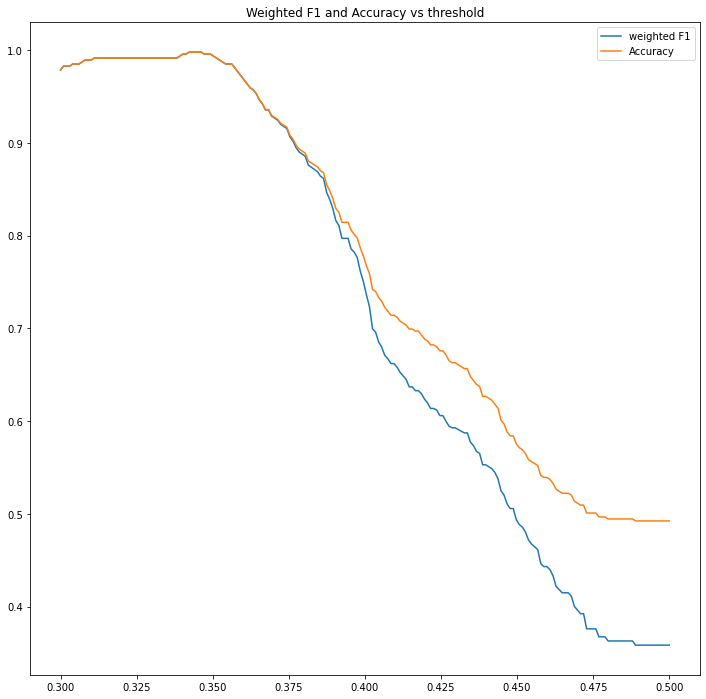
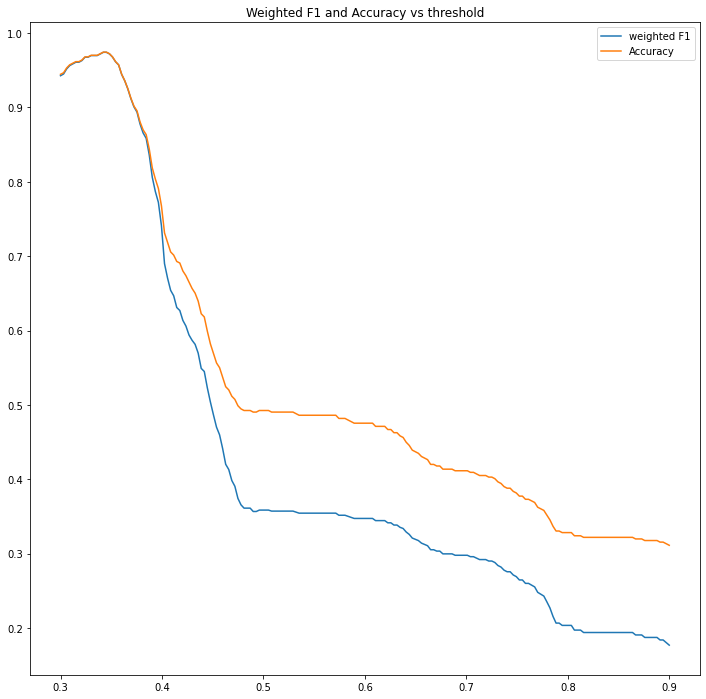
added readme file

diff --git a/README.md b/README.md
@@ -1,5 +1,49 @@
 # PeekingDuckling
+## 1. Description
+This is an implementation of facial identification algorithm to detect and identify the faces of the 3 members **Clarence**, **Eric Lee** and **Eric Kwok** from other detected faces.
+
 We will be using the [PeekingDuck](https://github.com/aimakerspace/PeekingDuck) framework for this mini project.
 
-## Description
+## 2. Usage
+
+
+## 3. Model and Training 
+
+### 3.1 Face Detection
+In this repository, we will be using the the library from [PeekingDuck](https://github.com/aimakerspace/PeekingDuck) to perform facial detection. 
+
+For the face detection, the MTCNN pretrained model from the PeekingDuck's framework was being implemented.
+
+### 3.2 Face Identification
+For face identification, cropped images (224 x 224) obtained from Face detection stage is passed to the pretrained RESNET50 model (trained on [VGGFace2](https://arxiv.org/abs/1710.08092) dataset) with a global average pooling layer to obtain the Face Embedding. The face embedding is then used to compare to the database of face embeddings obtained from the members to verify if the detected face belongs to one of the 3 members.<br>
+![Face classification](images/face_classification.png)
+Comparison of the face embedding is done using a 1-NN model, and a threshold is set using cosine similarity, below which the image will be classified as _'others'_
+
+The face embeddings were built using 651 images from Clarence, 644 images from Eric Kwok and 939 images from Eric Lee.
+
+**A low dimensional representation** of the face embedding database of the 3 members using the first 2 principal components from the PCA of the face embeddings can be found in the image below. <br>
+![PCA of members' face embeddings](images/embedding_clusters.png)
+
+**Augmentation** to have the 4 extra images per image using random rotations of (+/-) 20 degrees and random contrasting were used in building the database so that it can be more robust. The PCA of the augmented database can be seen in the image below <br>
+![PCA of members' face embeddings with augmentation](images/embedding_clusters_with_augment.png)
+
+## 4. Performance 
+The facial classification algorithm was able to achieve an **overall accuracy of 99.4%** and a **weighted F1 score of 99.4%** with 183 test images from Clarence, 179 from Eric Kwok, 130 from Eric Lee and 13,100 images from non-members obtained from this [database](http://vis-www.cs.umass.edu/lfw/#download). 
+
+Below shows the confusion matrix from the test result. <br>
+ ![confusion matrix of test result](./images/test_cm.png).
+
+The test was conducted with the tuned threshold on the validation dataset, and the performance of the model with various thresholds can be seen in the graph below. The threshold that yields the best performance is around 0.342. <br>
+![Performance vs various thresholds](./images/performance_vs_thresholds.png)
+
+## 5. Authors and Acknowledgements
+The authors would like to thank the mentor [Lee Ping](https://gitlab.aisingapore.net/ngleeping) for providing us with the technical suggestions as well as the inputs on the implementation of this project.
+
+**Authors:**
+* [Eric Kwok](https://gitlab.aisingapore.net/ngai_tung_kwok)
+* [Eric Lee](https://gitlab.aisingapore.net/hong_yeow_lee)
+* [Clarence Lam](https://gitlab.aisingapore.net/clarence_lam_wz)
+
+
+
 
